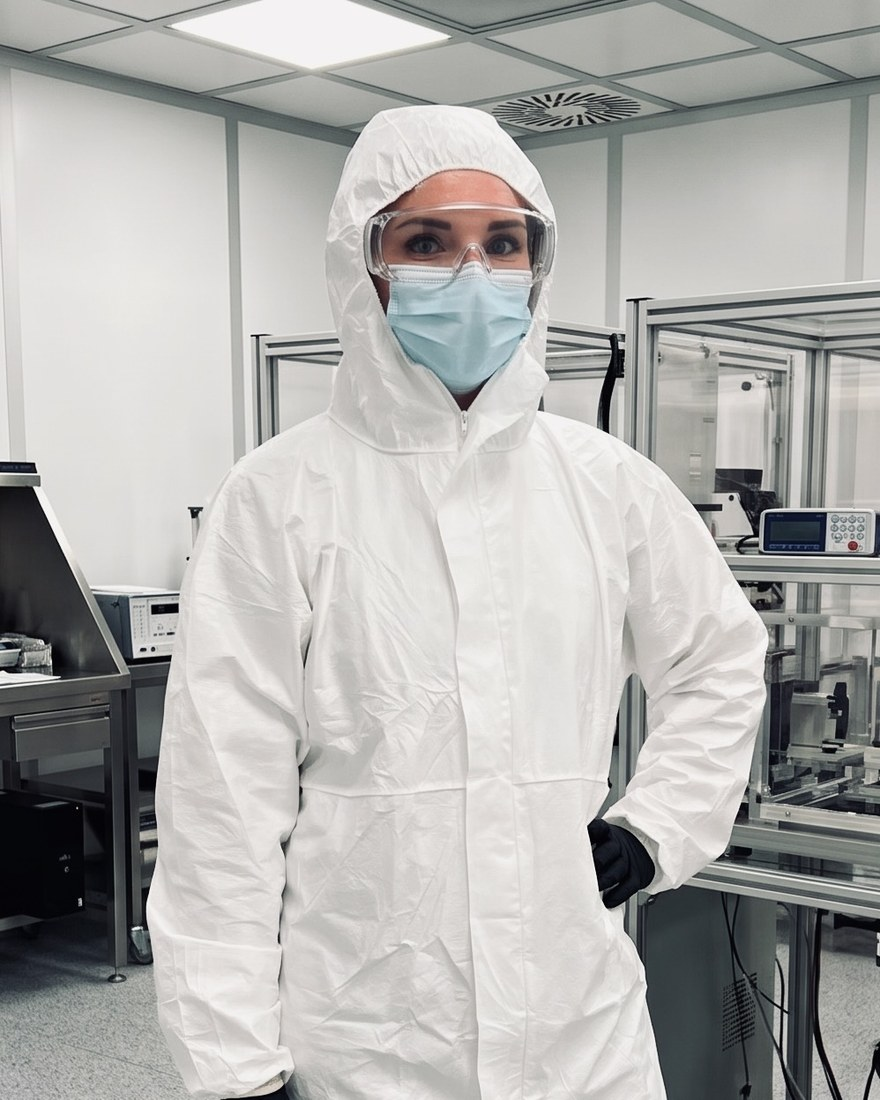
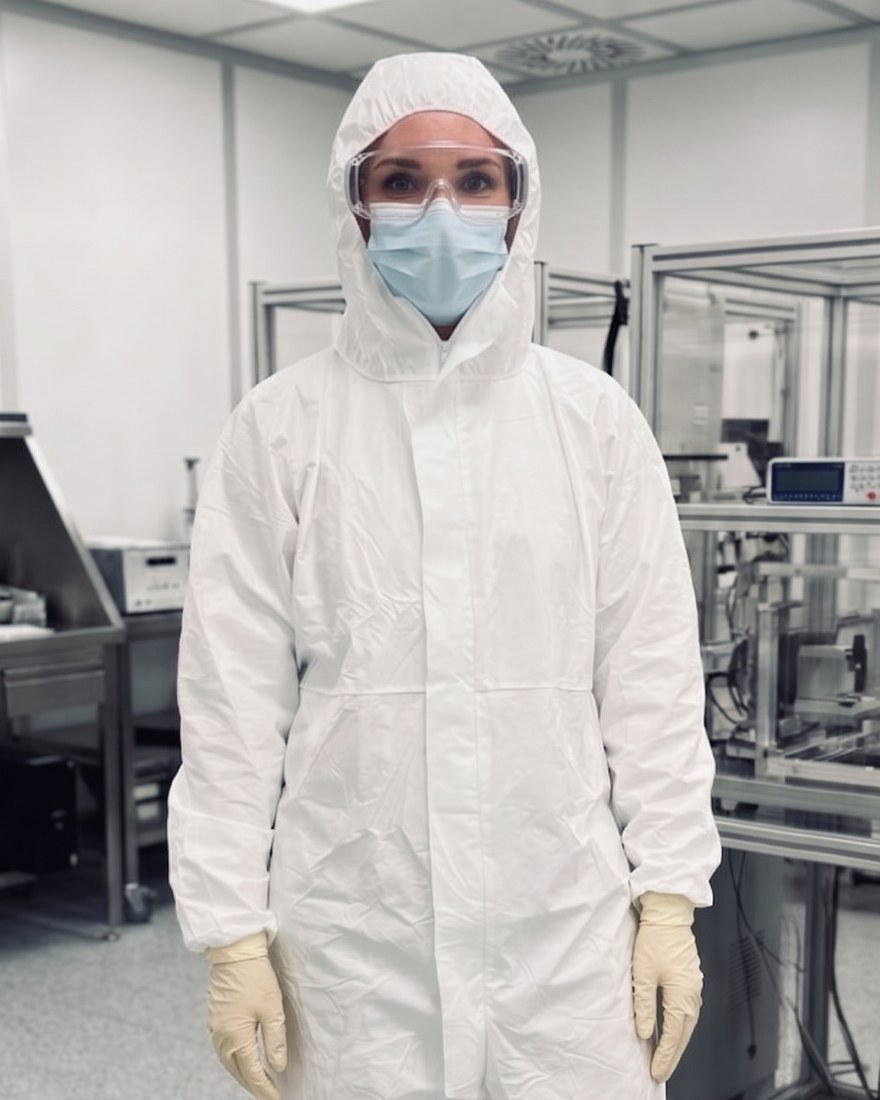
Update cleanroom photo on home page
Claude-Session: https://claude.ai/code/session_01K7MnMZyvxKVyAvvKcX3Vpj

diff --git a/index.html b/index.html
@@ -31,7 +31,7 @@
         <p class="home-links"><a href="about/">About me</a><a href="cv/">CV</a><a href="publications/">Publications</a></p>
       </div>
       <figure class="home-hero-photo home-hero-portrait home-hero-cleanroom">
-        <img src="about/assets/cleanroom.jpg?v=2" width="880" height="1100" fetchpriority="high" alt="Ann-Kathrin Schuetz in a white cleanroom suit, goggles and mask, standing in a cleanroom next to lab equipment.">
+        <img src="about/assets/cleanroom.jpg?v=3" width="880" height="1100" fetchpriority="high" alt="Ann-Kathrin Schuetz in a white cleanroom suit, goggles and mask, standing in a cleanroom next to lab equipment.">
       </figure>
     </section>
 
